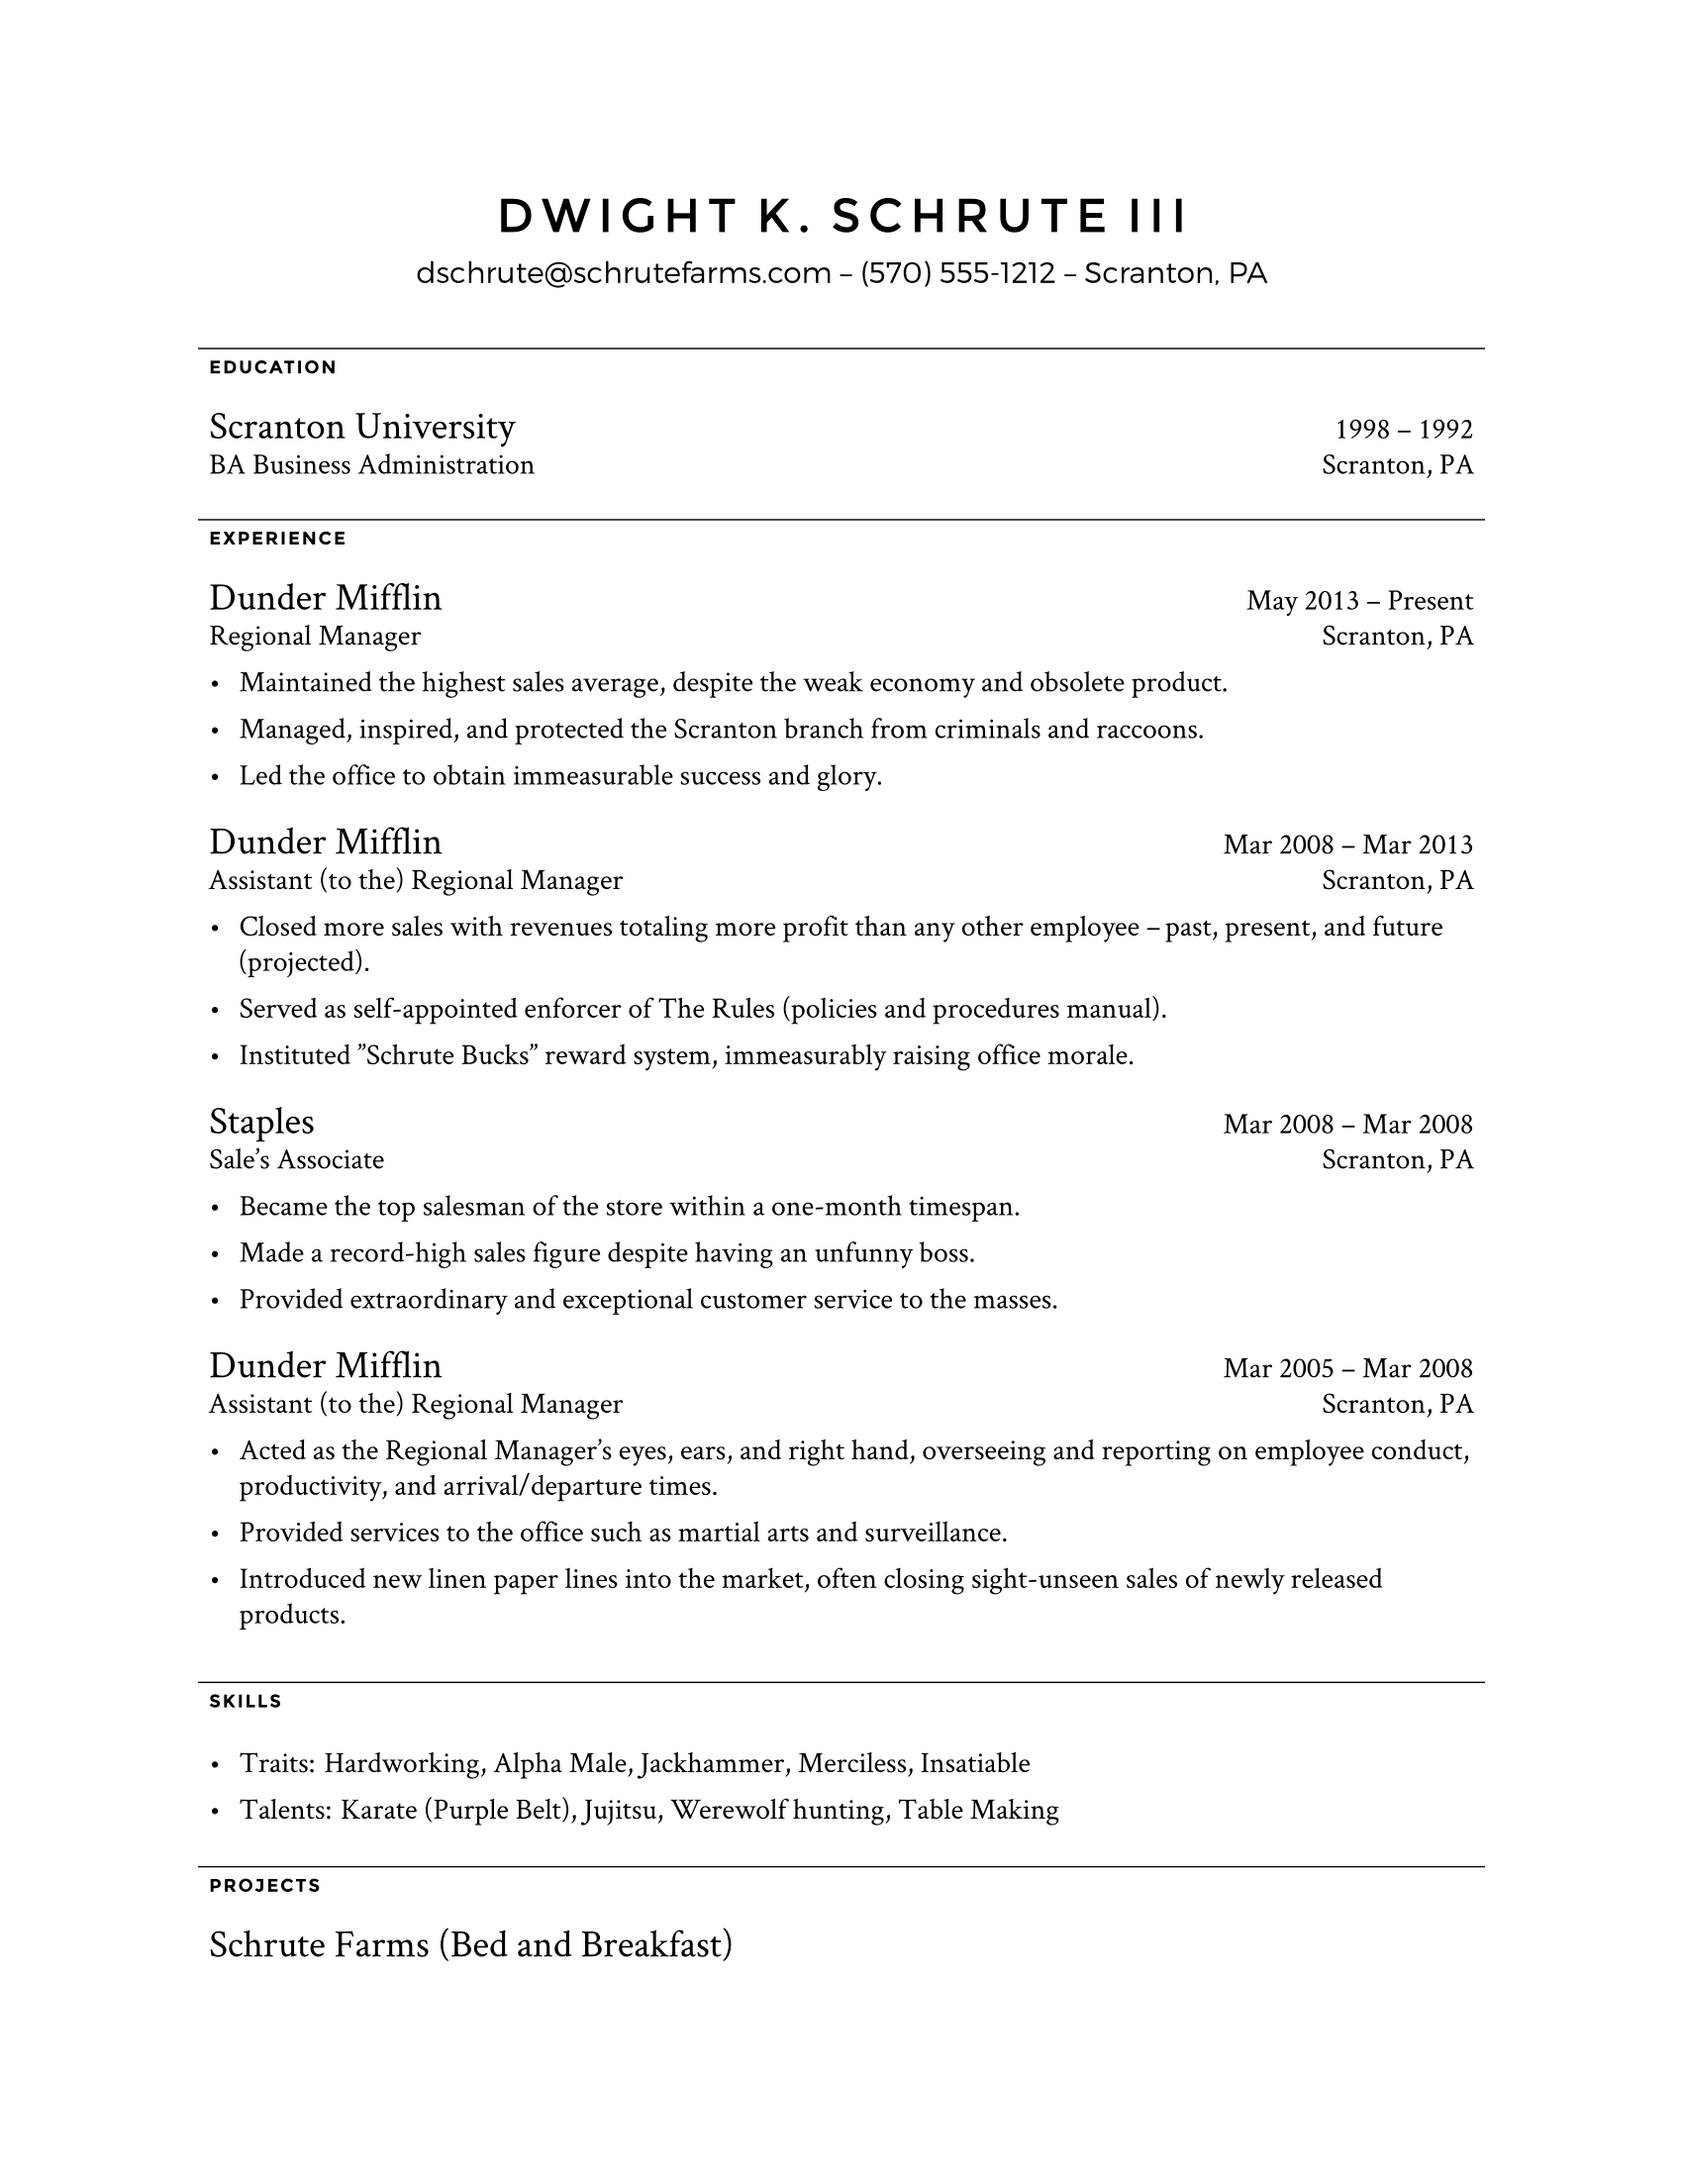
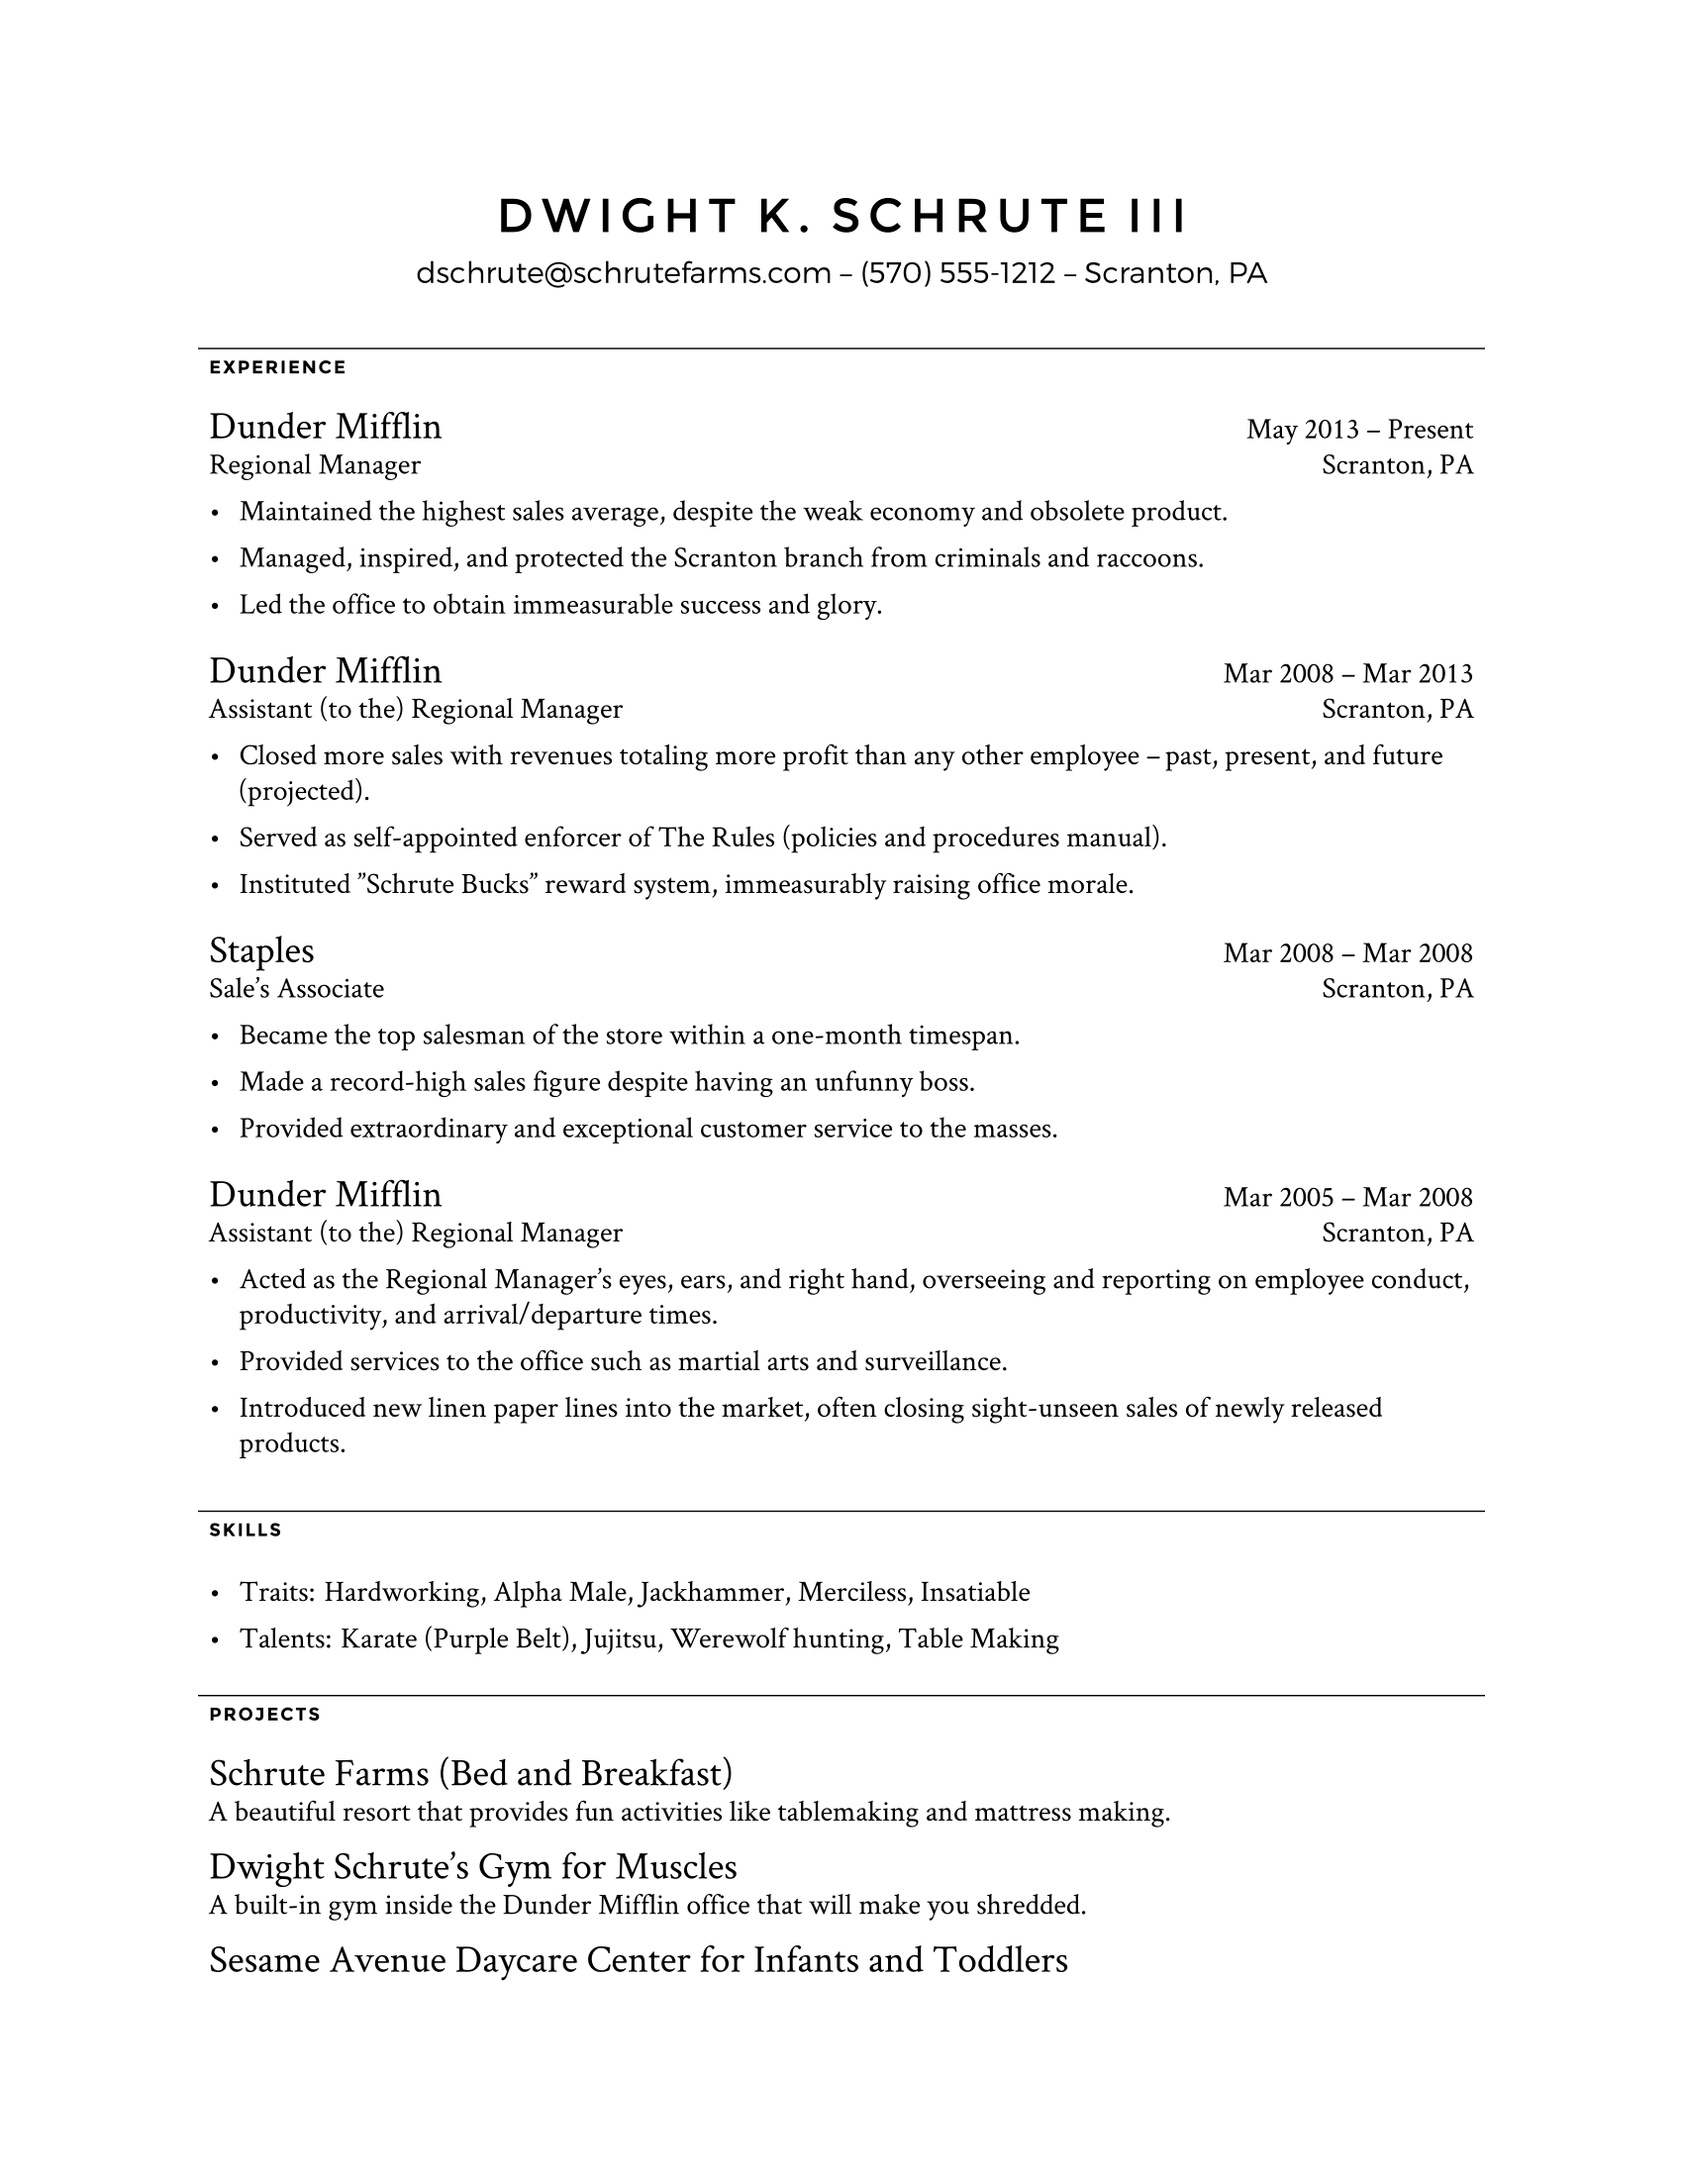
allow section ordering for template6

diff --git a/app/server/src/generator/templates/template6/index.js b/app/server/src/generator/templates/template6/index.js
@@ -230,17 +230,42 @@ const generator: Generator = {
 function template6(values: SanitizedValues) {
   const { headings = {} } = values
 
+  console.log(values.sections)
+
   return stripIndent`
     \\documentclass[10pt]{article}
     \\usepackage[english]{babel}
     \\input{config/minimal-resume-config}
     \\begin{document}
-    ${generator.profileSection(values.basics)}
-    ${generator.educationSection(values.education, headings.education)}
-    ${generator.workSection(values.work, headings.work)}
-    ${generator.skillsSection(values.skills, headings.skills)}
-    ${generator.projectsSection(values.projects, headings.projects)}
-    ${generator.awardsSection(values.awards, headings.awards)}
+    ${values.sections
+      .map(section => {
+        switch (section) {
+          case 'profile':
+            return generator.profileSection(values.basics)
+
+          case 'education':
+            return generator.educationSection(
+              values.education,
+              headings.education
+            )
+
+          case 'work':
+            return generator.workSection(values.work, headings.work)
+
+          case 'skills':
+            return generator.skillsSection(values.skills, headings.skills)
+
+          case 'projects':
+            return generator.projectsSection(values.projects, headings.projects)
+
+          case 'awards':
+            return generator.awardsSection(values.awards, headings.awards)
+
+          default:
+            return ''
+        }
+      })
+      .join('\n')}
     ${WHITESPACE}
     \\end{document}
   `
